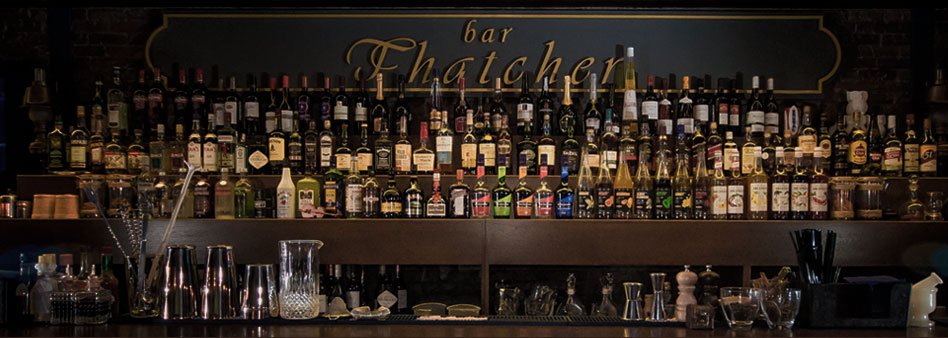
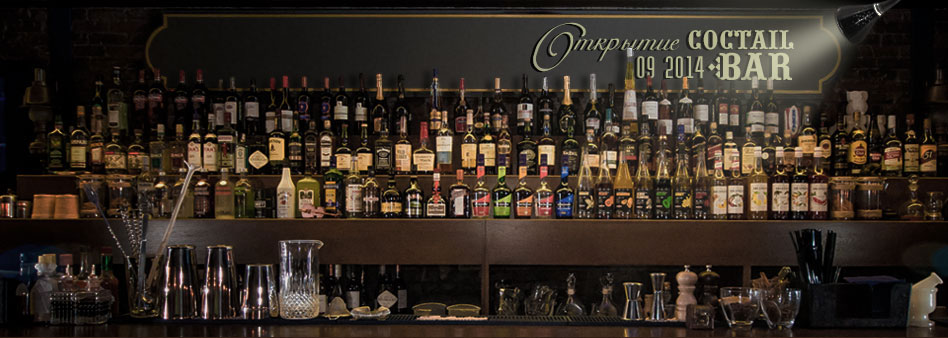
Change main image Light main menu elements

Changed region(s): [[0.3671, 0.0, 0.9483, 0.503], [0.5506, 0.0296, 0.5812, 0.0592]]

diff --git a/app/assets/stylesheets/application.css.scss b/app/assets/stylesheets/application.css.scss
@@ -326,14 +326,14 @@ td, th {
 /* ++Links */
 .menu a {
   text-decoration: none;
-  color: #934b1f;
+  color: #AD6438;
   font: normal 1.4em "bankir-retro";
   text-shadow: 1px 3px 3px black;
 }
 
 .glow:hover {
   text-shadow: 1px 3px 3px black;
-  color: #b26222;
+  color: #BD885D;
 }
 
 .content a {
